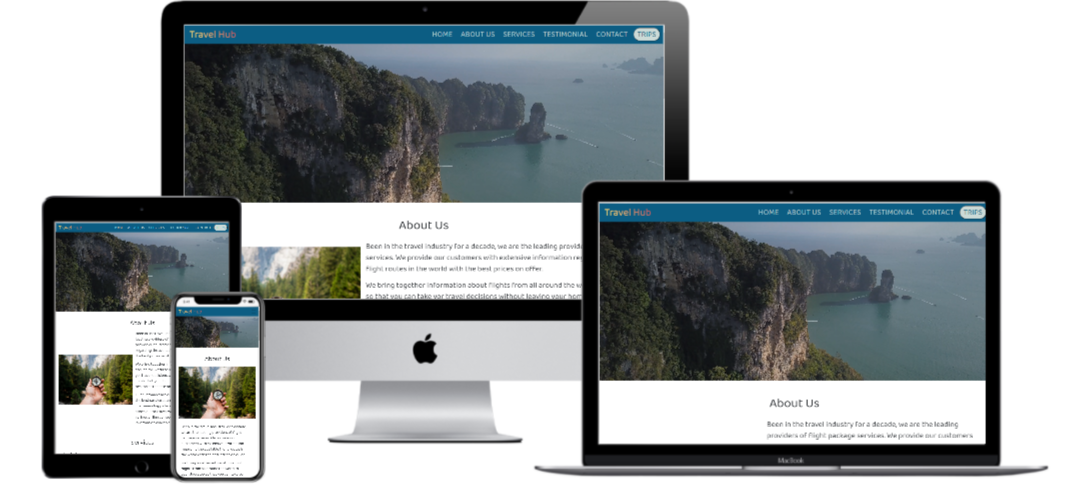
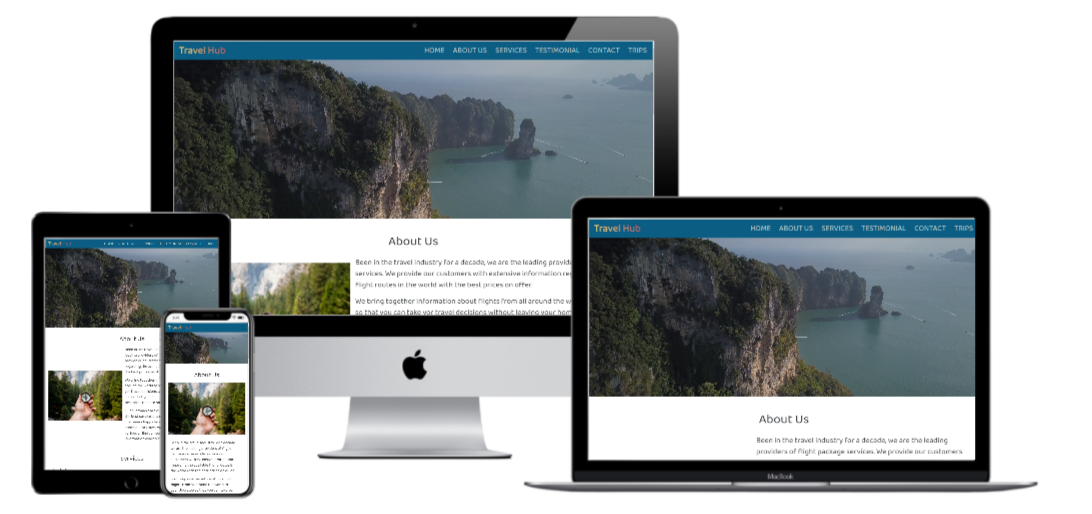
Mock Website screengrab updated and link changed in readme.md

diff --git a/README.md b/README.md
@@ -80,8 +80,8 @@ The site with travel information relating to flights.
 
 The W3C Markup Validator and W3C CSS Validator Services were used to validate every page of the project to ensure there were no syntax errors in the project.
 
--   [W3C Markup Validator](https://jigsaw.w3.org/css-validator/#validate_by_input) - [Results](https://github.com/)
--   [W3C CSS Validator](https://jigsaw.w3.org/css-validator/#validate_by_input) - [Results](https://github.com/)
+-   [W3C Markup Validator](https://jigsaw.w3.org/css-validator/#validate_by_input) - [Results](https://github.com/johnnyferns14/javascript-milestone-project-2/blob/master/assets/images/HTML%20Validator.jpg)
+-   [W3C CSS Validator](https://jigsaw.w3.org/css-validator/#validate_by_input) - [Results](https://github.com/johnnyferns14/javascript-milestone-project-2/blob/master/assets/images/CSS%20Validator.jpg)
 
 ### Testing User Stories from User Experience (UX) Section
 
